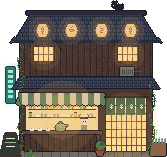
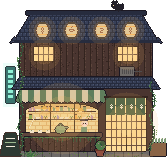
Give shops cafe-style arched windows with pendant lamps

Changed region(s): [[0.0898, 0.5605, 0.6587, 0.9172], [0.4192, 0.9427, 0.4491, 0.9682], [0.2994, 0.9427, 0.3293, 0.9682]]

diff --git a/tools/art/shops.js b/tools/art/shops.js
@@ -1,13 +1,14 @@
 // The five shops, drawn as cozy night-market shopfronts: a tiled roof
 // with paper lanterns along the eave, an upper floor, a striped awning
-// over an open counter (so you can see what each shop sells), and a
+// over a big arched cafe-style window (so you can see what each shop
+// sells, lit by little pendant lamps), and a
 // sliding lattice door with a cloth curtain (noren) over it.
 //
 // marketShop() draws the parts every shop shares. Each shop then passes
 // its own colors, plus small functions that draw what makes it special:
 //   upper(s)    windows and things on the upper floor
 //   roofTop(s)  something sitting on the roof
-//   counter(s)  what you see inside the open counter
+//   counter(s)  what you see inside the big window
 //   street(s)   things standing outside on the street
 // `s` holds the canvas, the list of lights, and handy positions
 // (wall edges, floor heights, the counter box, the door).
@@ -147,7 +148,7 @@ function marketShop(o) {
   const base = H - 6; // top of the stone foundation
   const doorW = o.doorW ?? 40;
   const doorL = R - doorW - 6;
-  const box = { x0: L + 6, x1: doorL - 8, y0: gt + 12, y1: gt + 42 };
+  const box = { x0: L + 6, x1: doorL - 8, y0: gt + 14, y1: gt + 44 };
   const s = { c, lights, W, H, L, R, up, mid, gt, base, box, doorL, doorW, wood, woodD, woodL, eave };
 
   o.behind?.(s);
@@ -198,11 +199,54 @@ function marketShop(o) {
   for (let x = L + 4; x < R; x += 9) c.rect(x, base + 1, 1, H - base - 1, P.stoneDark);
   moss(c, L - 2, base, R + 2, H, 40, 9);
 
-  // the open counter: lit room inside, then whatever this shop sells
-  c.rect(box.x0, box.y0, box.x1 - box.x0, box.y1 - box.y0, o.inside ?? 0xf0d9a0);
-  c.rect(box.x0, box.y0, box.x1 - box.x0, 6, o.insideTop ?? 0xe0b878);
+  // the big shop window: a lit room inside, then whatever this shop sells
+  const inside = o.inside ?? 0xf0d9a0;
+  const insideTop = o.insideTop ?? 0xe0b878;
+  c.rect(box.x0, box.y0, box.x1 - box.x0, box.y1 - box.y0, inside);
+  c.rect(box.x0, box.y0, box.x1 - box.x0, 6, insideTop);
+  // faint brick pattern on the back wall
+  for (let y = box.y0 + 7; y < box.y1; y++) {
+    for (let x = box.x0; x < box.x1; x++) {
+      if (y % 4 === 0 || (x + (Math.floor(y / 4) % 2) * 3) % 7 === 0) c.set(x, y, insideTop);
+    }
+  }
   o.counter(s);
-  lights.push([(box.x0 + box.x1) / 2, (box.y0 + box.y1) / 2, (box.x1 - box.x0) / 2]);
+  // pendant lamps hanging from the ceiling, like a cozy cafe
+  const lamps = Math.max(2, Math.floor((box.x1 - box.x0) / 26));
+  for (let i = 0; i < lamps; i++) {
+    const lx = Math.round(box.x0 + ((box.x1 - box.x0) * (i + 0.5)) / lamps);
+    const len = 3 + ((i * 2) % 4);
+    c.rect(lx, box.y0, 1, len, P.iron);
+    c.poly([[lx - 3, box.y0 + len + 3], [lx + 4, box.y0 + len + 3], [lx + 2, box.y0 + len], [lx - 1, box.y0 + len]], o.lampShade ?? P.gold);
+    c.rect(lx - 1, box.y0 + len + 3, 3, 1, P.glow);
+    lights.push([lx, box.y0 + len + 4, 10]);
+  }
+  lights.push([(box.x1 + box.x0) / 2, (box.y0 + box.y1) / 2, (box.x1 - box.x0) / 2]);
+  // the window frame: an arched top, thin bars and a little shine on the glass
+  const midX = (box.x0 + box.x1) / 2;
+  const halfW = (box.x1 - box.x0) / 2;
+  const archH = 8;
+  const inArch = (x, y) => y >= box.y0 + archH || ((x + 0.5 - midX) / halfW) ** 2 + ((y - box.y0 - archH) / archH) ** 2 <= 1;
+  for (let y = box.y0; y < box.y0 + archH; y++) {
+    for (let x = box.x0; x < box.x1; x++) if (!inArch(x, y)) c.set(x, y, wood);
+  }
+  for (let y = box.y0 - 1; y < box.y1; y++) {
+    for (let x = box.x0 - 1; x <= box.x1; x++) {
+      if (inArch(x, y) && x >= box.x0 && x < box.x1 && y >= box.y0) continue;
+      const near = [[1, 0], [-1, 0], [0, 1], [0, -1]].some(([dx, dy]) => {
+        const nx = x + dx;
+        const ny = y + dy;
+        return nx >= box.x0 && nx < box.x1 && ny >= box.y0 && ny < box.y1 && inArch(nx, ny);
+      });
+      if (near) c.set(x, y, woodD);
+    }
+  }
+  for (const t of [1 / 3, 2 / 3]) {
+    const bx = Math.round(box.x0 + (box.x1 - box.x0) * t);
+    for (let y = box.y0; y < box.y1; y++) if (inArch(bx, y)) c.set(bx, y, woodD);
+  }
+  for (let i = 0; i < 5; i++) c.set(box.x0 + 3 + i, box.y1 - 6 - i * 2, P.white);
+  for (let i = 0; i < 3; i++) c.set(box.x1 - 10 + i, box.y0 + 14 - i * 2, P.white);
   // counter top and front
   c.draw(part(W, H, (d) => d.rect(box.x0 - 4, box.y1, box.x1 - box.x0 + 8, 4, woodL)));
   const front = new Canvas(W, H);
@@ -210,14 +254,20 @@ function marketShop(o) {
   planks(front, wood, woodD, woodL, 6, 9);
   front.outline(P.line);
   c.draw(front);
-  o.onCounter?.(s); // things standing on the counter top
+  // flowers and trailing leaves spilling over the window sill
+  const fr = seeded(o.seed ?? 1);
+  for (let x = box.x0 - 3; x < box.x1 + 3; x++) {
+    c.set(x, box.y1 + 4, fr() > 0.4 ? P.leaf : P.leafDark);
+    if (fr() > 0.75) c.rect(x, box.y1 + 5, 1, 1 + Math.floor(fr() * 4), P.leafDark);
+  }
+  o.onCounter?.(s); // things standing on the window sill
 
-  // striped awning over the counter, with a scalloped edge
+  // striped awning over the window, with a scalloped edge
   const [a1, a2] = o.awning;
   const aw = new Canvas(W, H);
   const ax0 = box.x0 - 10;
   const ax1 = box.x1 + 10;
-  const ay = box.y0 - 8;
+  const ay = gt + 1;
   aw.poly([[ax0 + 4, ay], [ax1 - 4, ay], [ax1, ay + 10], [ax0, ay + 10]], a1);
   for (let x = ax0; x < ax1; x++) {
     for (let y = ay; y < ay + 11; y++) if (aw.get(x, y) === a1 && Math.floor((x - ax0) / 6) % 2 === 0) aw.set(x, y, a2);
